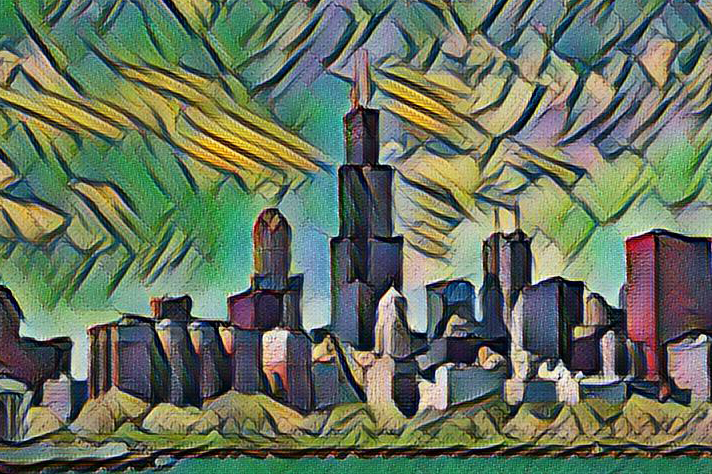
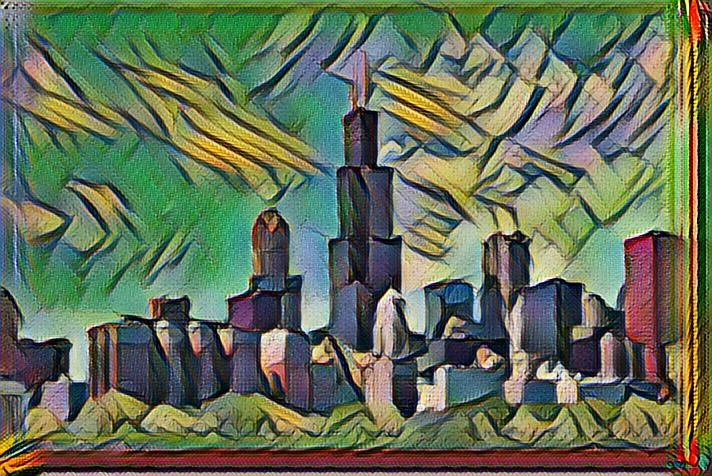
added picasso and chinese styles (note that these checkpoints are not pushed to GitHub due to file size limit)

diff --git a/templates/index.html b/templates/index.html
@@ -8,7 +8,9 @@
 
 {% block main %}
     <h1>Welcome to Fast Style Transfer demo</h1>
-    <p>upload your favorite photo and assign a famous style to it!</p>
+    <h6>by Shiwangi Singh and Shi Yin</h6>
+    <div>
+    <p>Upload your favorite photo and assign a famous style to it!</p>
 
     <form method=post enctype=multipart/form-data>
         <div class="row"><div class="col-md-12">
@@ -33,9 +35,10 @@
 
         <div class="col-md-6" align="center">
             <div class="">
-                <input type="submit" class="btn btn-primary" value="Start Evaluation"></input>
+                <br><br>
+                <input type="submit" class="btn btn-primary" value="Start Style Transfer"></input>
             </div>
         </div></div>
-
+    </div>
     </form>
 {% endblock %}

diff --git a/fast_style_transfer.py b/fast_style_transfer.py
@@ -26,8 +26,13 @@ app.config['STYLE_FOLDER'] = STYLE_FOLDER
 background_scripts = {}
 
 def run_evaluation(id, style, filename):
+    ckpt = ''
+    if style == 'chinese' or style == 'picasso':
+        ckpt = os.path.join(CHECKPOINT_FOLDER, style)
+    else:
+        ckpt = os.path.join(CHECKPOINT_FOLDER, style+'.ckpt')
     subprocess.call([FST_FOLDER+'/evaluate.py',
-        '--checkpoint', os.path.join(CHECKPOINT_FOLDER, style+'.ckpt'),
+        '--checkpoint', ckpt,
         '--in-path', os.path.join(UPLOAD_FOLDER, filename),
         '--out-path', RESULT_FOLDER])
     # subprocess.call([FST_FOLDER+'/test.py',
